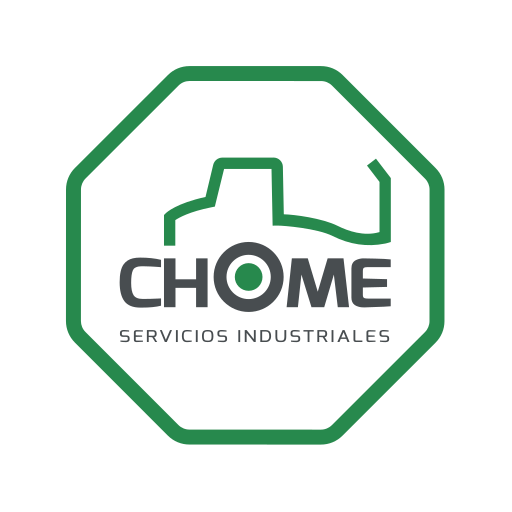
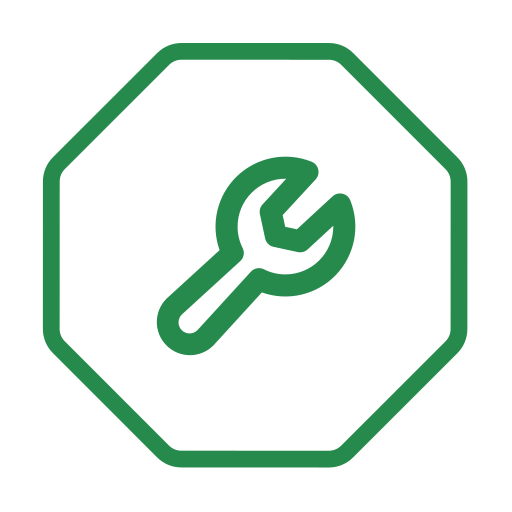
feat(mantencion): ícono propio de la app: el octágono de Chome con una llave
El ícono era el logo corporativo completo, ilegible a tamaño de pantalla de
inicio e igual al de cualquier otra app de Chome. Ahora es el octágono del logo
con la llave Wrench de Phosphor (el set de íconos de la plataforma) en el verde
Chome. La versión maskable deja margen para el recorte de Android. El caché del
service worker sube a v2 para que los teléfonos tomen los íconos nuevos.

Changed region(s): [[0.0625, 0.0625, 0.9375, 0.9375]]

diff --git a/e2e/mantencion-1-app.spec.ts b/e2e/mantencion-1-app.spec.ts
@@ -79,8 +79,8 @@ async function esperarSwListo(page: Page) {
     return Boolean(registro?.active?.state === "activated")
   }), { timeout: 30_000 }).toBe(true)
   const tamano = (nombre: string) => page.evaluate(async (cache) => (await (await caches.open(cache)).keys()).length, nombre)
-  await expect.poll(() => tamano("mant-shell-v1"), { timeout: 30_000 }).toBeGreaterThan(0)
-  await expect.poll(() => tamano("mant-static-v1"), { timeout: 30_000 }).toBeGreaterThan(0)
+  await expect.poll(() => tamano("mant-shell-v2"), { timeout: 30_000 }).toBeGreaterThan(0)
+  await expect.poll(() => tamano("mant-static-v2"), { timeout: 30_000 }).toBeGreaterThan(0)
 }
 
 /** JPEG pequeño y válido, generado en memoria en el propio navegador (sin archivos ni dependencias). */

diff --git a/public/mant-sw.js b/public/mant-sw.js
@@ -16,7 +16,7 @@
  *
  * Alcance: `/m/mantencion` (ver components/mantencion/app/sw-register.tsx).
  */
-const VERSION = "v1"
+const VERSION = "v2"
 const CACHE_PREFIX = "mant-"
 const SHELL_CACHE = `${CACHE_PREFIX}shell-${VERSION}`
 const STATIC_CACHE = `${CACHE_PREFIX}static-${VERSION}`
